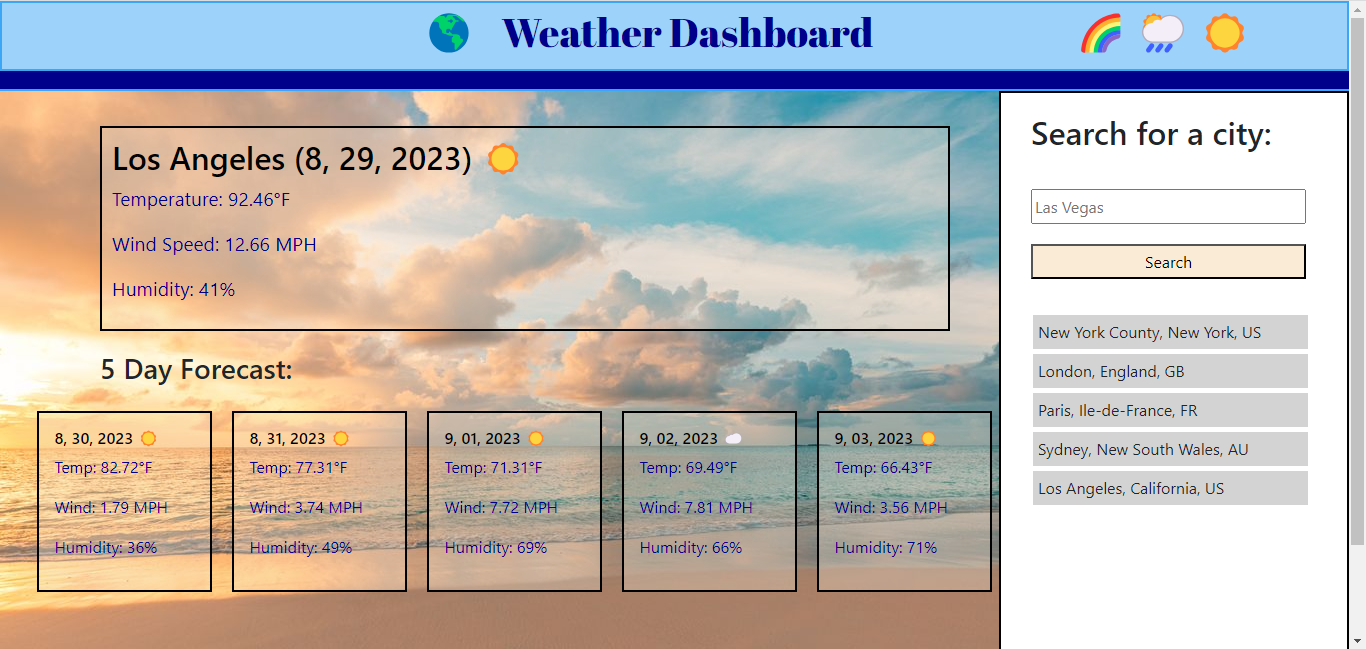
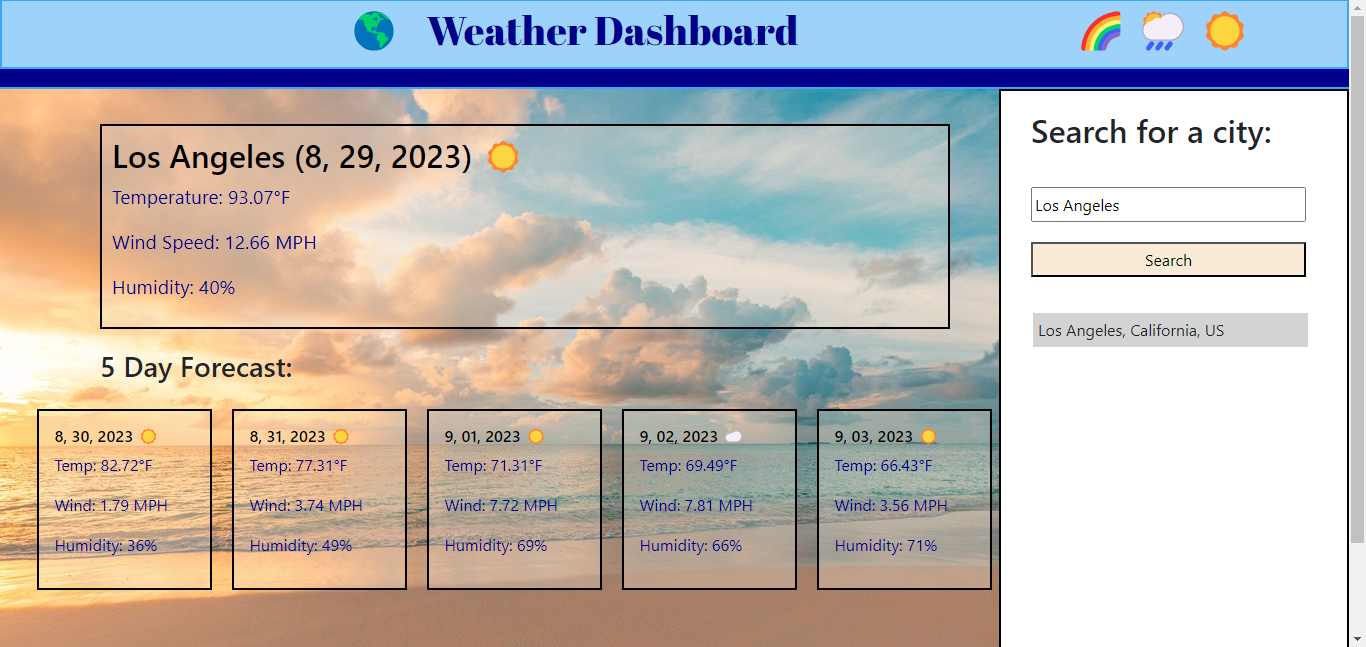
updated project images

diff --git a/assets/style.css b/assets/style.css
@@ -9,14 +9,9 @@ header {
     border: 2px solid rgb(59, 165, 246);
 }
 
-h1 {
-    position: relative;
-    left: 75px;
-}
-
 .rainbow {
     position: relative;
-    left: 200px;
+    left: 275px;
 }
 
 .globe {
